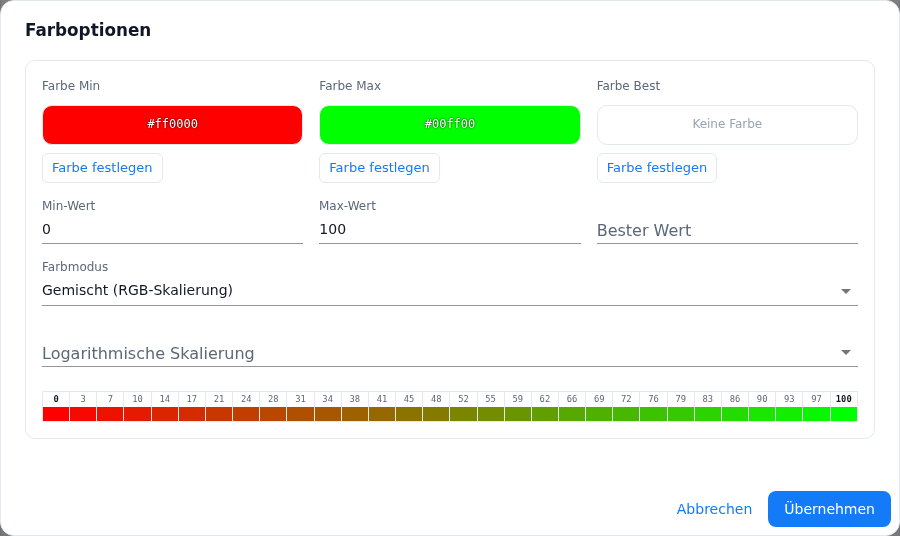
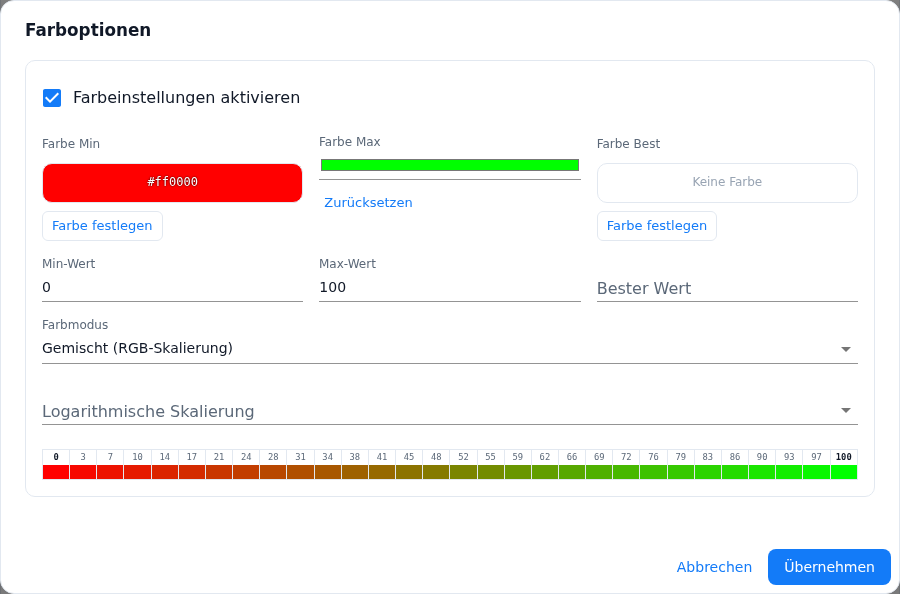
docs(PageConfig-Dialoge): color scale checkbox, navi roles, color button after the check, exclusive checkboxes (de/en)
Follow-up to #883 (B123/B124, B125, B126, B128).

- Section 1: "Is a navigation" and "Custom button" exclude each other now;
  the pitfall that both could be ticked is gone.
- Role table: navigation items offer the condition for the value for all six
  roles the adapter evaluates, not only thermostat and humidity.
- Section "Which button is there": the Color Settings button only appears
  once the channel check is through.
- Section 6: the new checkbox "Enable Color Settings" at the top of the
  dialog - what it locks, that apply without it stores no scale and removes
  an existing one, and that the dialog opens with defaults for an item
  without a scale. The two pitfalls on the always-written scale and the
  remembered values are replaced by one look back at 2.2.0.
- New picture of the dialog with the checkbox.

diff --git a/doc/de/PageConfig-Dialoge.md b/doc/de/PageConfig-Dialoge.md
@@ -40,6 +40,8 @@ Zwei Haken am Kopf des Dialogs entscheiden, welche Art von Element entsteht:
 | **Ist eine Navigation** | **Sprung auf eine andere Seite.** Statt eines Geräts wird eine **Zielseite** gewählt. Die Kanal-ID darf dann leer bleiben — der Dialog sagt das ausdrücklich („Leere ID ist erlaubt (Navigation)"). |
 | **Benutzerdefinierter Knopf (kein Alias nötig)** | **Ein einzelner Datenpunkt.** Kein Kanal, kein Alias: die ID muss direkt auf einen Datenpunkt mit `type=boolean` zeigen. Der Dialog prüft das und schreibt unter das Feld, was er gefunden hat — *beschreibbar*, *nur lesbar*, *kein boolean State* oder *kein State*. |
 
+**Die beiden Haken schließen sich aus.** Wer den einen setzt, nimmt den anderen zurück — ein Pageitem ist entweder Navigation oder benutzerdefinierter Knopf. (Bis einschließlich 2.2.0 ließen sich beide setzen; der Adapter nahm dann die Navigation.)
+
 Ist *Ist eine Navigation* gesetzt, erscheint das Feld **Zielseite**. Es listet die Seiten auf, die dieses Panel kennt — die eigene Seite ist aus der Liste genommen, `main` steht vorn, der Rest alphabetisch. Das Feld nimmt auch einen frei getippten Namen an; praktisch für eine Seite, die erst noch entsteht, aber auch die Stelle, an der ein Tippfehler unbemerkt bleibt.
 
 Am Ende der Liste steht der Eintrag **Screensaver**: Die Fläche zeigt dann sofort den Bildschirmschoner, so als wäre der Timeout des Panels abgelaufen (siehe [Bildschirmschoner sofort anzeigen](screensaver#15-bildschirmschoner-sofort-anzeigen)). Derselbe Eintrag steht in der Zielseite des langen Drucks und in der *Zielseite nach dem Drücken*.
@@ -106,7 +108,7 @@ Diese Felder erscheinen nur bei einem Pageitem mit gültiger Kanal-ID und passen
 
 | Feld | Rollen | Bedeutung |
 |---|---|---|
-| **Bedingung für den Wert** | `info`, `slider`, `motion`, `door`, `window`, `temperature`, `value.temperature`, `thermostat`, `airCondition`, `humidity`, `value.humidity` — bei Navigations-Items nur `thermostat` und `humidity` | JavaScript-Ausdruck über `val` (den aktuellen Wert), z. B. `val && val < 100`. Der Wert wird nur statt des Symbols angezeigt, solange der Ausdruck wahr ist, sonst das Symbol. |
+| **Bedingung für den Wert** | `info`, `slider`, `motion`, `door`, `window`, `temperature`, `value.temperature`, `thermostat`, `airCondition`, `humidity`, `value.humidity` — bei Navigations-Items `thermostat`, `airCondition`, `temperature`, `value.temperature`, `humidity` und `value.humidity` | JavaScript-Ausdruck über `val` (den aktuellen Wert), z. B. `val && val < 100`. Der Wert wird nur statt des Symbols angezeigt, solange der Ausdruck wahr ist, sonst das Symbol. |
 | **Minimalwert** / **Maximalwert** | `volume` | Der Bereich des Lautstärke-Schiebers; leer oder 0 = Panel-Standard. |
 | **Zweite Zeile** | `blind` | Text der zweiten Zeile im Rollladen-Popup; leer = keine. |
 | **Minimale / Maximale Helligkeit** | `dimmer`, `ct`, `rgb`, `rgbSingle`, `hue` | Der Wertebereich des Geräts, den der Adapter auf den **0–100-Schieber des Panels** abbildet; leer oder 0 = Panel-Standard, dann nimmt er `common.min`/`common.max` des Datenpunkts. |
@@ -135,7 +137,7 @@ So bleibt eine Seite, an der man nichts einstellt, trotzdem stimmig: Jede Lücke
 
 Beide werden **grün**, sobald dahinter etwas eingestellt ist. So sieht man an der Farbe des Knopfes, ob es sich lohnt hineinzuschauen.
 
-**Welcher Knopf da steht, entscheidet die Rolle.** **Farbeinstellungen** gibt es nur bei Rollen, deren Pageitem einen Zahlenwert führt: `blind`, `thermostat`, `airCondition`, `temperature`, `value.temperature`, `humidity`, `value.humidity`, `info`, `volume`, `select`, `slider`, `warning`, `level.timer` und `level.mode.fan`. Bei den rein schaltenden Rollen (`socket`, `light`, `dimmer`, `ct`, `rgb`, `rgbSingle`, `hue`, `button`, `gate`, `motion`, `door`, `window`, `lock`, `media`) fehlt er — ein Farbverlauf über einen Wertebereich ergibt dort keinen Sinn. Bei den Lichtrollen bleibt die **Modusliste**, bei `socket`, `button` und den Sensorrollen bleibt die Zeile ganz leer. Nur bei `select` stehen **beide** Knöpfe da. Beim benutzerdefinierten Knopf und im Rohdaten-Modus verschwinden beide.
+**Welcher Knopf da steht, entscheidet die Rolle.** **Farbeinstellungen** gibt es nur bei Rollen, deren Pageitem einen Zahlenwert führt: `blind`, `thermostat`, `airCondition`, `temperature`, `value.temperature`, `humidity`, `value.humidity`, `info`, `volume`, `select`, `slider`, `warning`, `level.timer` und `level.mode.fan`. Bei den rein schaltenden Rollen (`socket`, `light`, `dimmer`, `ct`, `rgb`, `rgbSingle`, `hue`, `button`, `gate`, `motion`, `door`, `window`, `lock`, `media`) fehlt er — ein Farbverlauf über einen Wertebereich ergibt dort keinen Sinn. Bei den Lichtrollen bleibt die **Modusliste**, bei `socket`, `button` und den Sensorrollen bleibt die Zeile ganz leer. Nur bei `select` stehen **beide** Knöpfe da. Beim benutzerdefinierten Knopf und im Rohdaten-Modus verschwinden beide. **Farbeinstellungen** erscheint außerdem erst, wenn die Prüfung der Kanal-ID durch ist — beim Öffnen des Dialogs und nach dem Tippen einer ID ist der Knopf kurz weg, bei einem geleerten Feld oder einem Kanal, den es nicht gibt, bleibt er weg.
 
 Unten rechts stehen **Abbrechen** und **Übernehmen**. Während der Prüfung heißt der rechte Knopf *Prüfe…*, bei erkannten Problemen **Details…** (orange) — dazu [Abschnitt 8](#8-die-prüfung-beim-übernehmen).
 
@@ -233,6 +235,8 @@ Das **Zahnrad** am Kanalfeld öffnet den Dialog *Wertanzeige-Konfiguration* (Too
 
 Titel *Farboptionen*. Hier wird aus einem Zahlenwert eine Farbe — ein Symbol, das von Blau nach Rot läuft, je wärmer der Messwert ist.
 
+**Farbeinstellungen aktivieren** — der Haken ganz oben schaltet die **Farbskala** ein. Ohne Haken sind *Farbe Best*, Min-/Max-Wert, Bester Wert, Farbmodus und logarithmische Skalierung gesperrt, und *Übernehmen* speichert **keine** Skala — eine vorhandene wird dabei entfernt, der Knopf *Farbeinstellungen* im Pageitem-Dialog ist danach nicht mehr grün. *Farbe Min* und *Farbe Max* gehen auch ohne Haken, sie sind die Farben für *unwahr* und *wahr*. Ein Item ohne Skala öffnet den Dialog mit Haken aus und den Startwerten der Felder (0–100, *Gemischt*, kein Bestwert); ein Item mit Skala öffnet ihn mit Haken an und seinen Werten.
+
 **Die drei Farbfelder:** **Farbe Min**, **Farbe Max** und **Farbe Best**. *Farbe Min* und *Farbe Max* sind **dieselben Werte** wie *Farbe* in den Spalten *Bedingung ist unwahr* bzw. *wahr* — eine Änderung hier ändert sie auch dort. Solange keine eigene Farbe gesetzt ist, steht *Keine Farbe* bzw. die Standardfarbe als Vorschau da, und **Farbe festlegen** übernimmt genau diesen Standardwert als Startpunkt. **Zurücksetzen** gibt die Farbe an Rolle und [Farbthema](colorTheme) zurück.
 
 | Feld | Bedeutung |
@@ -294,10 +298,8 @@ Sind schon vorher Datenpunkte als fehlend oder doppelt erkannt oder passt die Ro
 - **Der dynamische Name wirkt nur bei leerem Namensfeld.** Wer beides füllt, sieht am Panel den getippten Namen; der dynamische Name wird gar nicht gespeichert. Die blasse Vorschau im Namensfeld verschwindet dann.
 - **Einheit und Datumsformat am dynamischen Namen gehen verloren.** Ein Eintrag aus einer älteren Version wird beim Öffnen des Dialogs stillschweigend geleert, weil der Adapter ihn dort nicht liest.
 - **Die Vorschau zeigt nicht, was am Panel steht.** Am Zahnrad steht der Hauptwert nur als `<value>` da, und die Einheit fehlt in der Vorschau grundsätzlich, sobald die Wertquelle keine Zahl ist — am Panel wird sie trotzdem angehängt.
-- **Die Farboptionen schreiben beim Übernehmen immer eine Skala.** Auch wer nichts ändert und nur *Übernehmen* drückt, legt eine Farbskala mit 0–100 und *Gemischt* an; der Knopf **Farbeinstellungen** bleibt danach grün. Eine Möglichkeit, die Skala im Dialog wieder zu entfernen, gibt es nicht — nur noch über die Rohdaten oder ein neues Pageitem.
-- **Die Farboptionen merken sich Werte vom vorigen Pageitem.** Hat das gerade geöffnete Item keine Skala, stehen Min-Wert, Max-Wert, Bester Wert, Farbmodus und Farbe Best noch so, wie sie beim letzten Item im selben Editor waren. Vor dem *Übernehmen* also nachsehen.
+- **Bis einschließlich 2.2.0 verhielten sich drei Dinge anders.** Die Farboptionen schrieben beim Übernehmen immer eine Skala (loswerden nur über die Rohdaten) und merkten sich die Werte des vorigen Pageitems; *Ist eine Navigation* und *Benutzerdefinierter Knopf* ließen sich gleichzeitig setzen (der Adapter nahm dann die Navigation); und der Knopf *Farbeinstellungen* zeigte während der Kanalprüfung noch das Urteil des vorigen Kanals. Die Version nach 2.2.0 hat alle drei behoben.
 - **Tri- und Quad-Gradient ignorieren die gewählten Farben.** Der Verlauf ist fest; nur die Vorschau zeigt den tatsächlichen Verlauf. Trifft der Messwert genau den **besten** Wert und ist dieser gleich dem **Max-Wert**, rechnet der Adapter 0/0 — die Farbe wird unbrauchbar. Bester Wert und Max-Wert also nie gleich setzen.
-- **Beide Haken am Kopf lassen sich gleichzeitig setzen.** *Ist eine Navigation* und *Benutzerdefinierter Knopf* schließen sich im Dialog nicht aus; der Adapter nimmt dann die **Navigation** und behandelt den Rest als Beiwerk. Immer nur einen Haken setzen.
 - **Die Zielseite nimmt jeden Text an.** Navigations-Zielseite, *Zielseite nach dem Drücken* und die Zielseite des langen Drucks sind freie Felder. Ein Tippfehler fällt erst am Panel auf, wo der Sprung dann ins Leere geht.
 - **Im Rohdaten-Modus prüft nichts mehr mit.** Kanal, Rolle und Pflicht-Datenpunkte werden nicht geprüft, und *Übernehmen* ist auch ohne Kanal möglich. Ob das JSON zum Kartentyp passt, zeigt erst die [Prüfung beim Übernehmen](#8-die-prüfung-beim-übernehmen) — und die auch nur, wenn der Adapter läuft.
 - **„Rohdaten entfernen" bringt die alten Felder zurück, nicht einen leeren Dialog.** Die Standardfelder bleiben im Hintergrund erhalten, solange Rohdaten aktiv sind; nach dem Entfernen stehen sie wieder da — unter Umständen mit Werten, die man längst vergessen hat.

diff --git a/doc/en/PageConfig-Dialoge.md b/doc/en/PageConfig-Dialoge.md
@@ -40,6 +40,8 @@ Two checkboxes at the head of the dialog decide which kind of element you get:
 | **Is a navigation** | **A jump to another page.** Instead of a device you pick a **Target page**. The channel ID may then stay empty — the dialog says so explicitly ("Empty ID is allowed (Navigation)"). |
 | **Custom button (no alias needed)** | **A single state.** No channel, no alias: the ID has to point directly at a state with `type=boolean`. The dialog checks that and writes underneath what it found — *writeable*, *read-only*, *not a boolean state* or *not a state*. |
 
+**The two checkboxes exclude each other.** Ticking one takes the other back — a page item is either a navigation or a custom button. (Up to and including 2.2.0 both could be ticked; the adapter then took the navigation.)
+
 With *Is a navigation* ticked, the field **Target page** appears. It lists the pages this panel knows about — the page itself is taken out of the list, `main` comes first, the rest alphabetically. The field also accepts a freely typed name; handy for a page that does not exist yet, and also the place where a typo goes unnoticed.
 
 At the end of the list stands the entry **Screensaver**: the slot then shows the screensaver at once, as if the timeout of the panel had run out (see [showing the screensaver at once](screensaver#15-showing-the-screensaver-at-once)). The same entry stands in the target page of the long press and in the *Target page after pressing*.
@@ -106,7 +108,7 @@ These fields only appear for a page item with a valid channel ID and a matching 
 
 | Field | Roles | Meaning |
 |---|---|---|
-| **Condition for the value** | `info`, `slider`, `motion`, `door`, `window`, `temperature`, `value.temperature`, `thermostat`, `airCondition`, `humidity`, `value.humidity` — for navigation items only `thermostat` and `humidity` | A JavaScript expression over `val` (the current value), e.g. `val && val < 100`. The value is only shown instead of the icon while the expression is true, otherwise the icon is shown. |
+| **Condition for the value** | `info`, `slider`, `motion`, `door`, `window`, `temperature`, `value.temperature`, `thermostat`, `airCondition`, `humidity`, `value.humidity` — for navigation items `thermostat`, `airCondition`, `temperature`, `value.temperature`, `humidity` and `value.humidity` | A JavaScript expression over `val` (the current value), e.g. `val && val < 100`. The value is only shown instead of the icon while the expression is true, otherwise the icon is shown. |
 | **Minimum value** / **Maximum value** | `volume` | The range of the volume slider; empty or 0 = panel default. |
 | **Second row** | `blind` | Text of the second row in the shutter popup; empty = none. |
 | **Minimum / Maximum brightness** | `dimmer`, `ct`, `rgb`, `rgbSingle`, `hue` | The value range of the device that the adapter maps onto the **0–100 slider of the panel**; empty or 0 = panel default, then it uses `common.min`/`common.max` of the state. |
@@ -135,7 +137,7 @@ That way a page you never styled still looks coherent: every gap is filled by th
 
 Both turn **green** as soon as something is configured behind them. So the colour of the button tells you whether it is worth looking inside.
 
-**Which button is there is decided by the role.** **Color Settings** only exists for roles whose page item carries a numeric value: `blind`, `thermostat`, `airCondition`, `temperature`, `value.temperature`, `humidity`, `value.humidity`, `info`, `volume`, `select`, `slider`, `warning`, `level.timer` and `level.mode.fan`. For the purely switching roles (`socket`, `light`, `dimmer`, `ct`, `rgb`, `rgbSingle`, `hue`, `button`, `gate`, `motion`, `door`, `window`, `lock`, `media`) it is missing — a colour gradient across a value range makes no sense there. For the light roles the **mode list** remains, for `socket`, `button` and the sensor roles the row stays empty altogether. Only for `select` are **both** buttons there. With a custom button and in raw data mode both disappear.
+**Which button is there is decided by the role.** **Color Settings** only exists for roles whose page item carries a numeric value: `blind`, `thermostat`, `airCondition`, `temperature`, `value.temperature`, `humidity`, `value.humidity`, `info`, `volume`, `select`, `slider`, `warning`, `level.timer` and `level.mode.fan`. For the purely switching roles (`socket`, `light`, `dimmer`, `ct`, `rgb`, `rgbSingle`, `hue`, `button`, `gate`, `motion`, `door`, `window`, `lock`, `media`) it is missing — a colour gradient across a value range makes no sense there. For the light roles the **mode list** remains, for `socket`, `button` and the sensor roles the row stays empty altogether. Only for `select` are **both** buttons there. With a custom button and in raw data mode both disappear. **Color Settings** also only appears once the check of the channel ID is through — when the dialog opens and after an ID was typed the button is gone for a moment, with an emptied field or a channel that does not exist it stays away.
 
 At the bottom right there are **Cancel** and **Apply**. During the check the right button reads *Checking…*, with problems detected **Details…** (orange) — see [section 8](#8-the-check-when-applying).
 
@@ -233,6 +235,8 @@ The **gear** at the channel field opens the dialog *Value Display Configuration*
 
 Title *Color Options*. This turns a numeric value into a colour — an icon that runs from blue to red the warmer the reading gets.
 
+**Enable Color Settings** — the checkbox at the very top switches the **colour scale** on. Without it, *Color Best*, Min/Max Value, Best Value, Color Mode and Logarithmic Scaling are disabled, and *Apply* stores **no** scale — an existing one is removed, and the *Color Settings* button in the page item dialog is no longer green afterwards. *Color Min* and *Color Max* work without the checkbox, they are the colours for *false* and *true*. An item without a scale opens the dialog with the checkbox off and the fields at their defaults (0–100, *Mixed*, no best value); an item with a scale opens it with the checkbox on and its values.
+
 **The three colour fields:** **Color Min**, **Color Max** and **Color Best**. *Color Min* and *Color Max* are **the same values** as *Color* in the columns *Condition is false* respectively *true* — a change here changes them there as well. As long as no colour of your own is set, it says *No color* or shows the default colour as a preview, and **Set color** takes exactly that default as a starting point. **Reset** hands the colour back to role and [colour theme](colorTheme).
 
 | Field | Meaning |
@@ -294,10 +298,8 @@ If states were already detected as missing or duplicated, or the role does not f
 - **The dynamic name only works with an empty name field.** Filling both shows the typed name on the panel; the dynamic name is not even stored. The faint preview in the name field disappears then.
 - **Unit and date format at the dynamic name are lost.** An entry from an older version is cleared silently when the dialog opens, because the adapter does not read it there.
 - **The preview does not show what appears on the panel.** At the gear the main value only stands there as `<value>`, and the unit is generally missing from the preview as soon as the value source is not a number — on the panel it is appended all the same.
-- **The Color Options always write a scale when applying.** Even pressing only *Apply* without changing anything creates a colour scale with 0–100 and *Mixed*; the **Color Settings** button stays green afterwards. There is no way to remove the scale again in the dialog — only via the raw data or a new page item.
-- **The Color Options remember values from the previous page item.** If the item just opened has no scale, Min Value, Max Value, Best Value, Color Mode and Color Best still stand as they were on the last item in the same editor. So look before you *Apply*.
+- **Up to and including 2.2.0 three things behaved differently.** The Color Options always wrote a scale when applying (removable only via the raw data) and remembered the values of the previous page item; *Is a navigation* and *Custom button* could be ticked at the same time (the adapter then took the navigation); and the *Color Settings* button still showed the verdict of the previous channel while a channel was being checked. The version after 2.2.0 fixes all three.
 - **Tri- and Quad-Gradient ignore the chosen colours.** The gradient is fixed; only the preview shows the actual gradient. If the reading hits the **best** value exactly and that equals the **Max Value**, the adapter computes 0/0 — the colour becomes useless. So never set Best Value and Max Value to the same number.
-- **Both checkboxes at the head can be ticked at the same time.** *Is a navigation* and *Custom button* do not exclude each other in the dialog; the adapter then takes the **navigation** and treats the rest as trimming. Only ever tick one of them.
 - **The target page accepts any text.** The navigation target page, *Target page after pressing* and the target page of the long press are free fields. A typo only shows up on the panel, where the jump then leads nowhere.
 - **In raw data mode nothing is checked any more.** Channel, role and required states are not checked, and *Apply* is possible without a channel. Whether the JSON fits the card type is only shown by the [check when applying](#8-the-check-when-applying) — and only while the adapter is running.
 - **"Remove raw data" brings the old fields back, not an empty dialog.** The standard fields are kept in the background while raw data is active; after removing it they are there again — possibly with values long forgotten.
